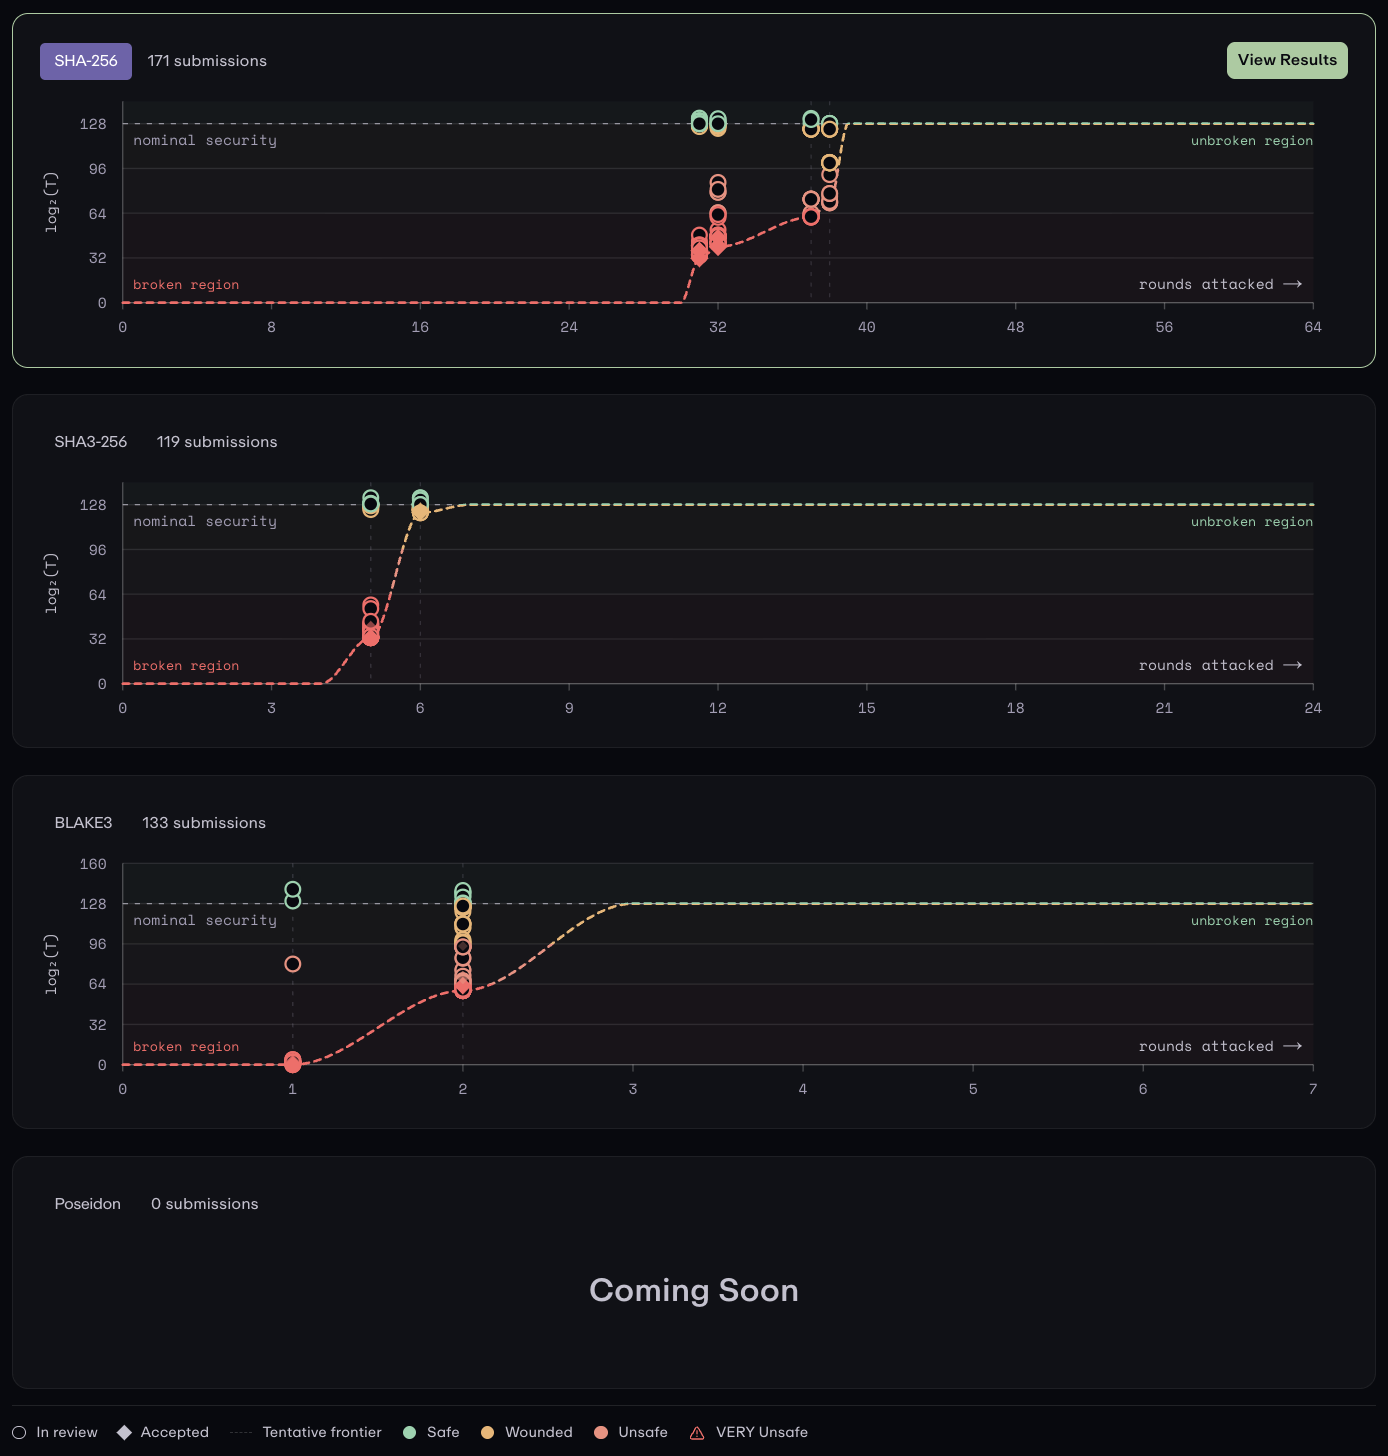
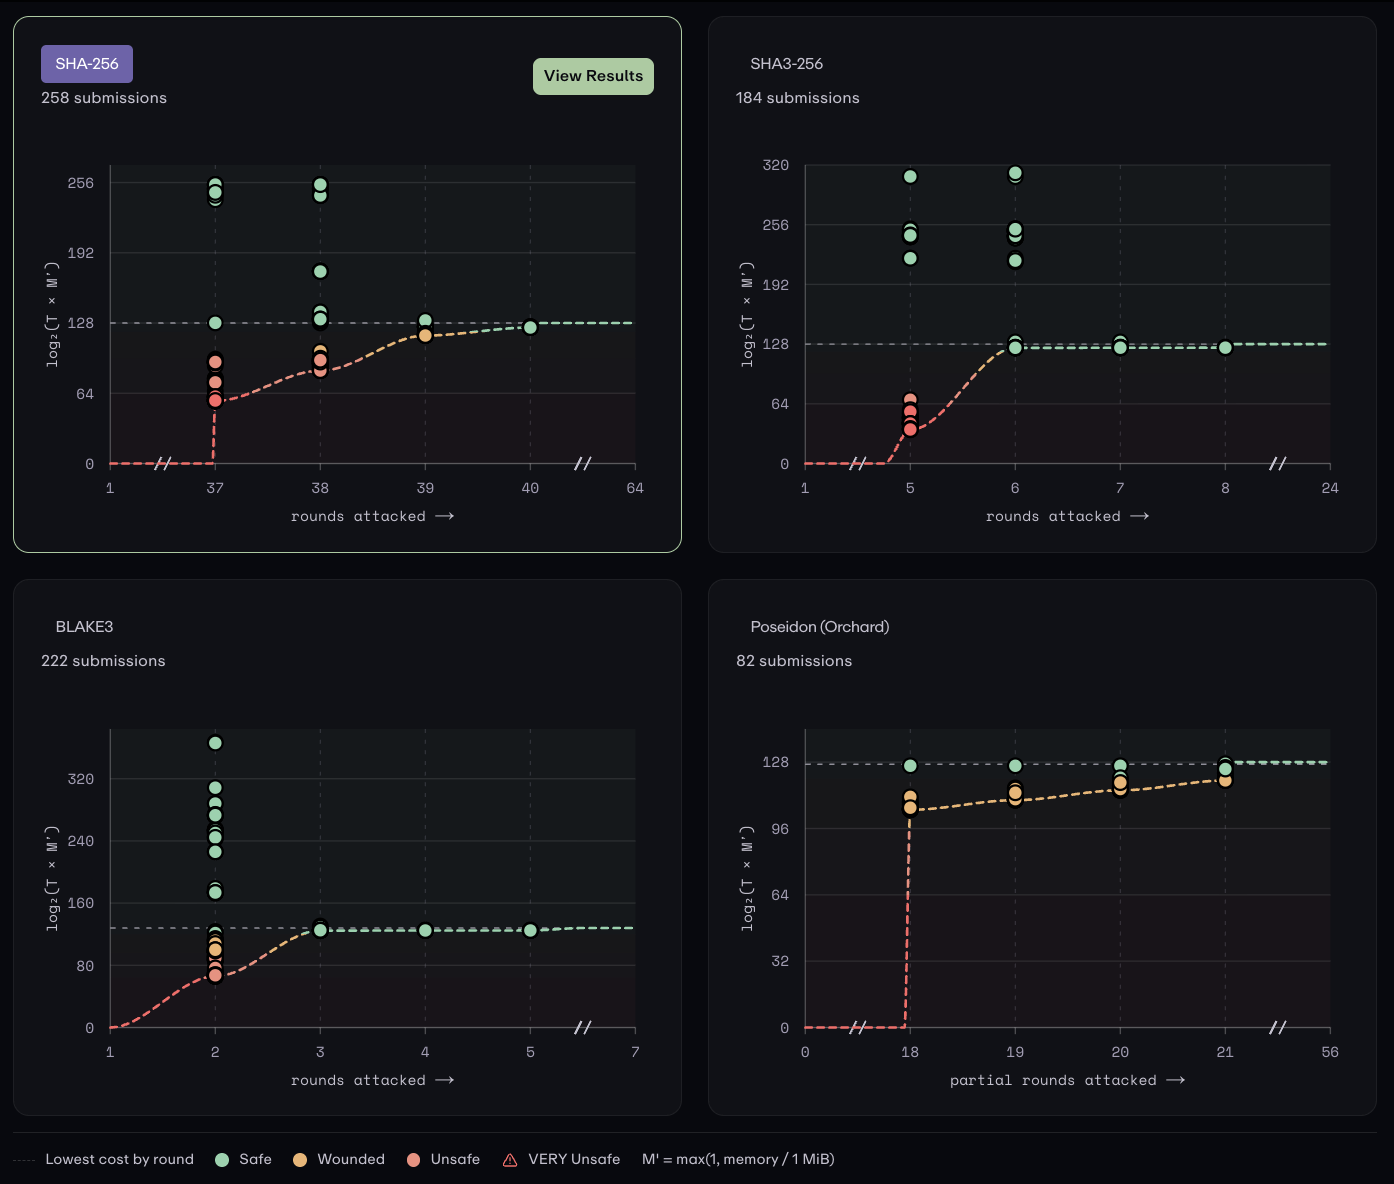
HashSmash slides: the site as it stands on 2 November 2026 (slide 6), Poseidon among its tracks

diff --git a/slides.js b/slides.js
@@ -252,8 +252,8 @@ function drawNegative() {
 
 // ---------------------------------------------------------------- main: HashSmash, live
 function drawActivity() {
-  const s = svg('f-activity', 1700, 1352);
-  el('image', { href: 'scrot.png', x: 0, y: 0, width: 1700, height: 1352 }, s);
+  const s = svg('f-activity', 1394, 1184);
+  el('image', { href: 'scrot.png', x: 0, y: 0, width: 1394, height: 1184 }, s);
 }
 
 // ---------------------------------------------------------------- navigation
